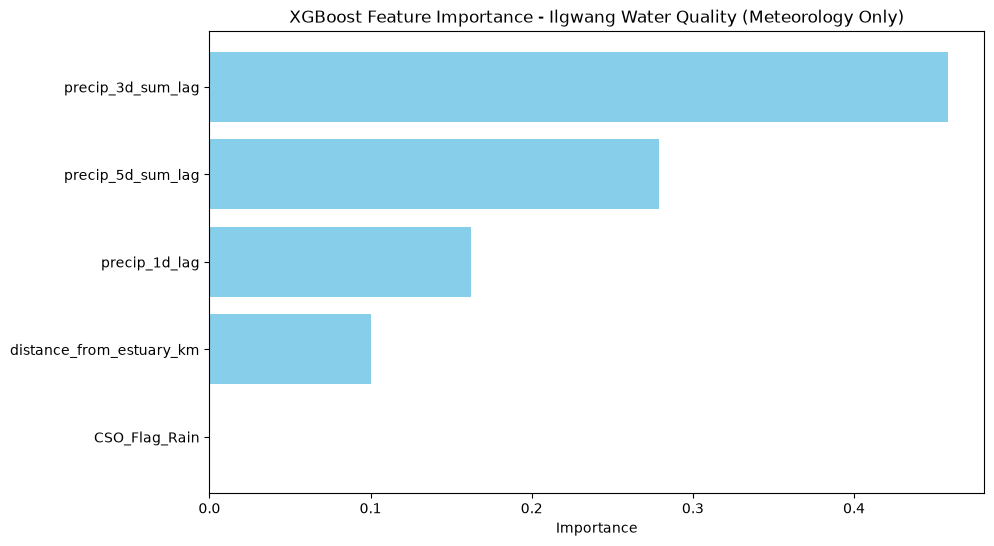
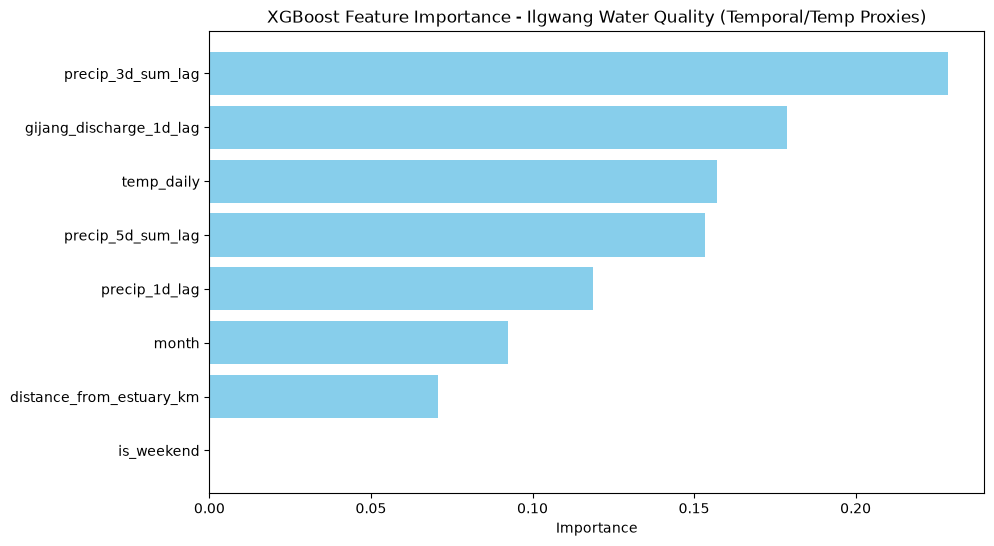
feat: Refactor all models to Ultra-Minimalist RFE feature sets

diff --git a/Dadaepo_WaterQuality_Project/Scripts/regression_modeling.py b/Dadaepo_WaterQuality_Project/Scripts/regression_modeling.py
@@ -35,12 +35,13 @@ def run_regression_modeling():
     # Base Features (Original 90-row model baseline features for fair comparison, minus discharge as we use sewage now)
     features = ['precip_1d_lag', 'precip_2d_sum_lag', 'precip_3d_sum_lag', 'temp_1d_lag', 'wind_max_1d_lag', 'discharge_1d_lag', 'discharge_3d_sum_lag']
     
-    # V2 Advanced Features (Spatial + Sewage CSO)
-    # We include all base features, plus spatial (distance), sensors, visitors, tide, and sewage.
-    adv_features = features + [
-        'sensor_turbidity_max_1d_lag', 'sensor_salinity_min_1d_lag', 'sensor_temp_mean_1d_lag', 
-        'visitor_count_1d_lag', 
-        'distance_from_estuary_km', 'sewage_discharge_1d_lag', 'sewage_discharge_3d_sum_lag', 'CSO_Flag'
+    # V2 Advanced Features (Ultra-Minimalist RFE Optimized)
+    # Kept only the 4 core features identified by RFE (ROC-AUC 0.974)
+    adv_features = [
+        'discharge_3d_sum_lag', 
+        'sensor_temp_mean_1d_lag', 
+        'sewage_discharge_1d_lag', 
+        'sewage_discharge_3d_sum_lag'
     ]
     
     X_base = df[features]

diff --git a/Gwangalli_WaterQuality_Project/Scripts/regression_modeling_gwangalli.py b/Gwangalli_WaterQuality_Project/Scripts/regression_modeling_gwangalli.py
@@ -22,13 +22,12 @@ def run_modeling():
     # Calculate log target
     df['log_ecoli'] = np.log1p(df['ecoli_max'])
     
-    # Features
+    # Features (Ultra-Minimalist RFE Optimized)
+    # Kept only the 3 core features identified by RFE (ROC-AUC 0.889)
     features = [
-        'precip_1d_lag', 'precip_2d_sum_lag', 'precip_3d_sum_lag',
-        'temp_1d_lag', 'wind_max_1d_lag',
-        'distance_from_estuary_km',
-        'suyeong_vol_1d_lag', 'nambu_vol_1d_lag', 
-        'CSO_Flag_East', 'CSO_Flag_West'
+        'suyeong_vol_1d_lag', 
+        'nambu_vol_1d_lag', 
+        'CSO_Flag_East'
     ]
     
     X = df[features]

diff --git a/Ilgwang_WaterQuality_Project/Scripts/regression_modeling_ilgwang.py b/Ilgwang_WaterQuality_Project/Scripts/regression_modeling_ilgwang.py
@@ -17,7 +17,8 @@ def model_ilgwang():
     # Target
     df['log_ecoli'] = np.log1p(df['ecoli_max'])
     
-    # Features (Meteorology + Spatial + Temporal Proxies + Gijang Sewage)
+    # Features (Ultra-Minimalist RFE Optimized)
+    # Dropped is_weekend noise feature (ROC-AUC 0.705)
     features = [
         'precip_1d_lag',
         'precip_3d_sum_lag',
@@ -25,7 +26,6 @@ def model_ilgwang():
         'distance_from_estuary_km',
         'temp_daily',
         'month',
-        'is_weekend',
         'gijang_discharge_1d_lag'
     ]
     

diff --git a/Haeundae_WaterQuality_Project/Scripts/regression_modeling_haeundae.py b/Haeundae_WaterQuality_Project/Scripts/regression_modeling_haeundae.py
@@ -17,14 +17,12 @@ def model_haeundae():
     # Target
     df['log_ecoli'] = np.log1p(df['ecoli_max'])
     
-    # Features (Testing Sewage vs Rain directly)
+    # Features (Ultra-Minimalist RFE Optimized)
+    # Kept only the 3 core features identified by RFE (ROC-AUC 0.856)
     features = [
         'precip_3d_sum_lag',
         'precip_5d_sum_lag',
-        'distance_from_estuary_km',
-        'suyeong_vol_1d_lag', 
-        'CSO_Flag_Suyeong',
-        'CSO_Flag_Rain'
+        'suyeong_vol_1d_lag'
     ]
     
     X = df[features]
